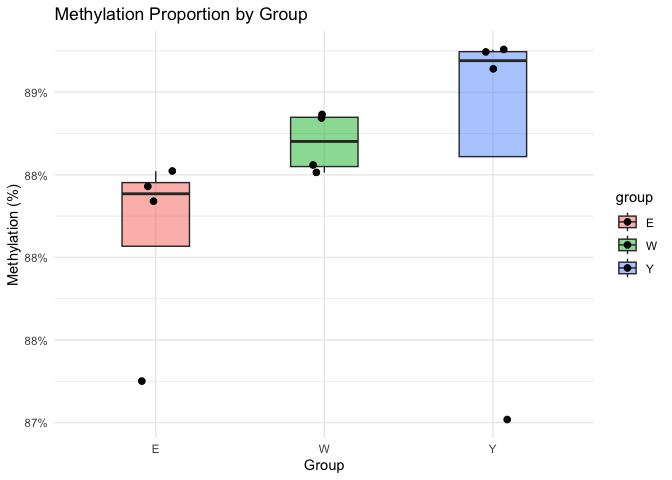
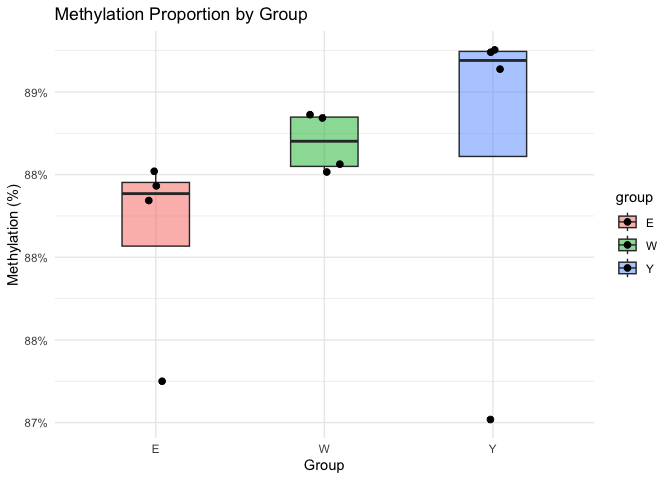
rmd

diff --git a/results/2025-09-11/README.md b/results/2025-09-11/README.md
@@ -1306,5 +1306,6 @@ RNA</caption>
 ### IGV snapshots
 
 ![Fos](igv_snapshot_fos.png) ![Igf2bp1](igv_snapshot_igf2bp1.png)
+![lin28b](igv_snapshot_lin28b.png)
 
 data: [sig\_diff.csv](sig.csv)
